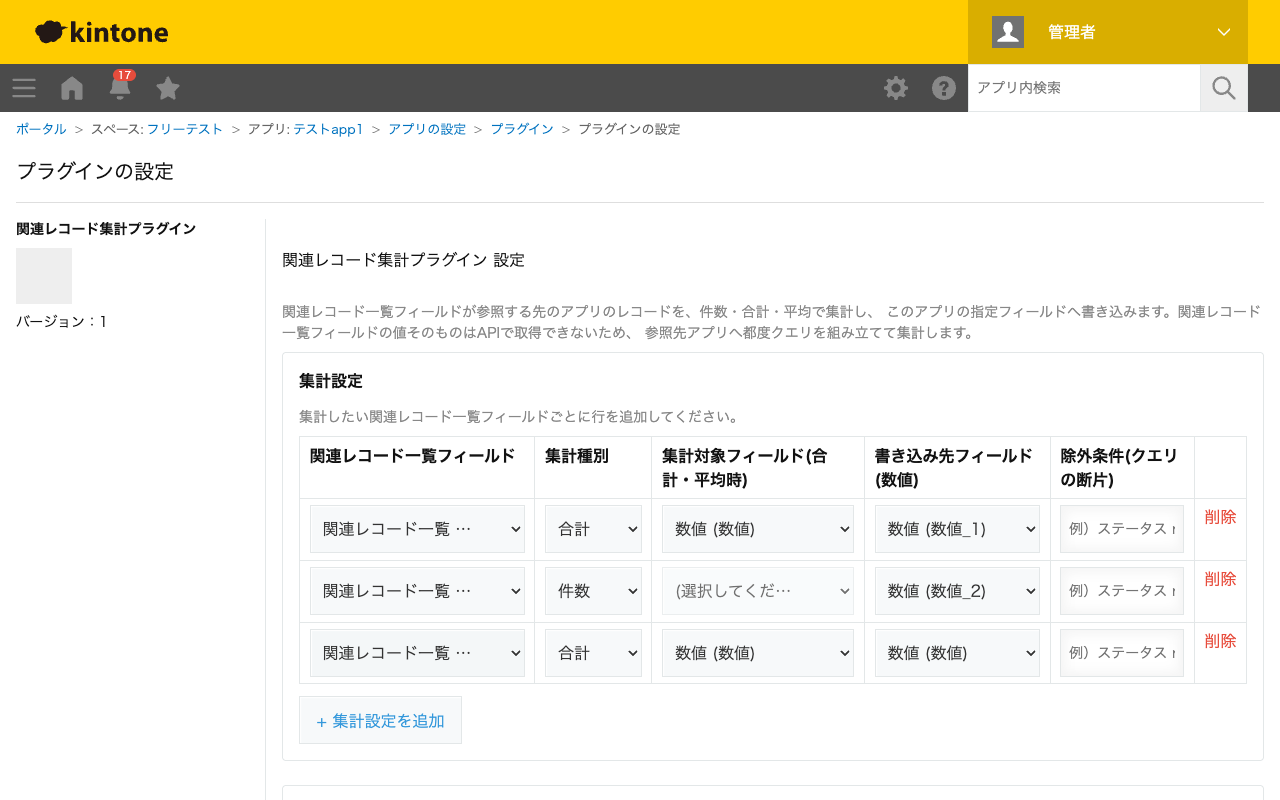
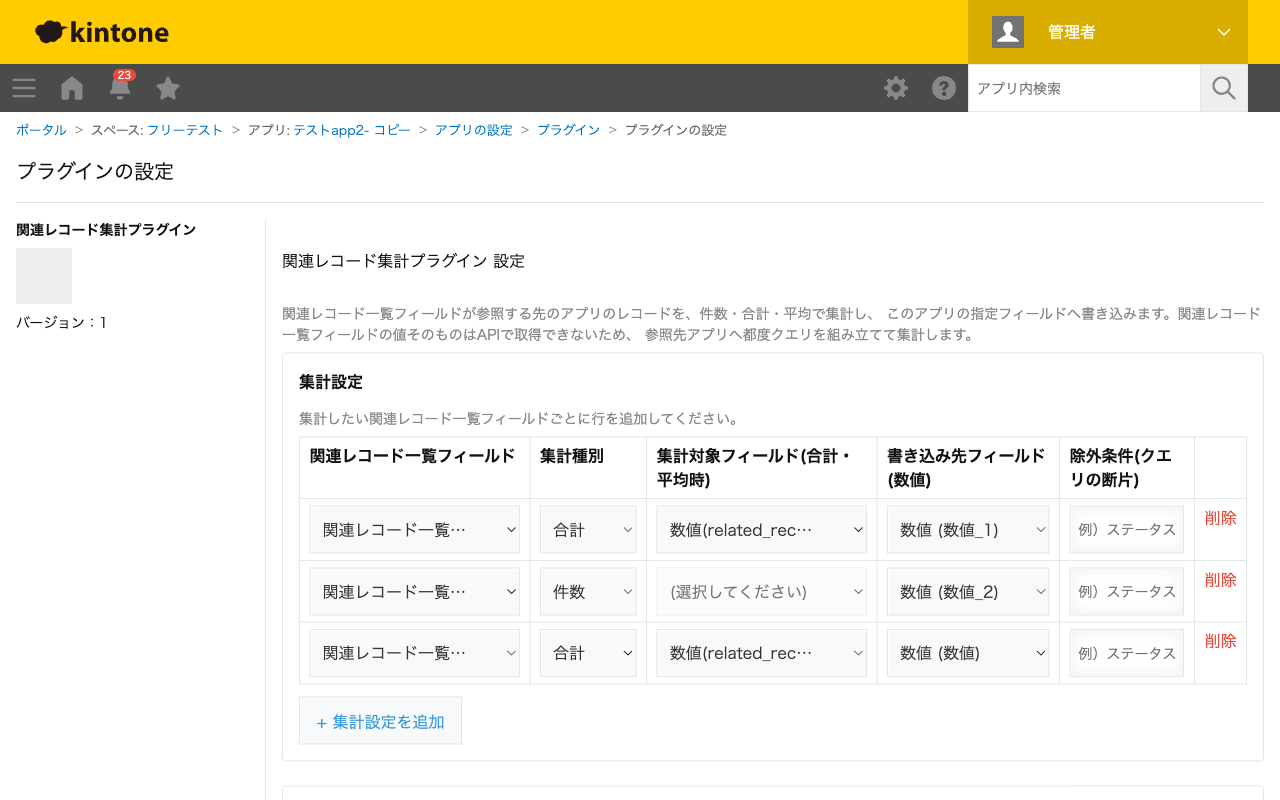
Allow numeric CALC fields as aggregation targets in related_record_summary
Previously only NUMBER-typed fields were offered as SUM/AVERAGE targets.
Calculation fields formatted as plain numbers (NUMBER/NUMBER_DIGIT) now
qualify too; date/time-formatted CALC fields are still excluded since
their REST values aren't numeric strings and would silently aggregate
to zero.

diff --git a/related_record_summary/src/__tests__/aggregatable-fields.test.js b/related_record_summary/src/__tests__/aggregatable-fields.test.js
@@ -1,0 +1,66 @@
+'use strict';
+
+const {
+  isAggregatableField,
+  filterAggregatableFields,
+} = require('../js/lib/aggregatable-fields');
+
+describe('isAggregatableField', () => {
+  test('NUMBERフィールドは対象になる', () => {
+    expect(isAggregatableField({ type: 'NUMBER', code: 'n' })).toBe(true);
+  });
+
+  test('表示書式が数値のCALCフィールドは対象になる', () => {
+    expect(
+      isAggregatableField({ type: 'CALC', code: 'c', format: 'NUMBER' }),
+    ).toBe(true);
+  });
+
+  test('表示書式が数値(カンマ区切り)のCALCフィールドは対象になる', () => {
+    expect(
+      isAggregatableField({ type: 'CALC', code: 'c', format: 'NUMBER_DIGIT' }),
+    ).toBe(true);
+  });
+
+  test.each(['DATETIME', 'DATE', 'TIME', 'HOUR_MINUTE', 'DAY_HOUR_MINUTE'])(
+    '表示書式が%sのCALCフィールドは対象外になる',
+    (format) => {
+      expect(isAggregatableField({ type: 'CALC', code: 'c', format })).toBe(
+        false,
+      );
+    },
+  );
+
+  test('NUMBER/CALC以外のフィールドは対象外になる', () => {
+    expect(isAggregatableField({ type: 'SINGLE_LINE_TEXT', code: 's' })).toBe(
+      false,
+    );
+    expect(isAggregatableField({ type: 'REFERENCE_TABLE', code: 'r' })).toBe(
+      false,
+    );
+  });
+
+  test('未定義・nullは対象外になる', () => {
+    expect(isAggregatableField(undefined)).toBe(false);
+    expect(isAggregatableField(null)).toBe(false);
+  });
+});
+
+describe('filterAggregatableFields', () => {
+  test('配列から対象フィールドのみ抽出する', () => {
+    const fields = [
+      { type: 'NUMBER', code: 'n' },
+      { type: 'CALC', code: 'c1', format: 'NUMBER' },
+      { type: 'CALC', code: 'c2', format: 'DATE' },
+      { type: 'SINGLE_LINE_TEXT', code: 's' },
+    ];
+    expect(filterAggregatableFields(fields)).toEqual([
+      { type: 'NUMBER', code: 'n' },
+      { type: 'CALC', code: 'c1', format: 'NUMBER' },
+    ]);
+  });
+
+  test('未定義は空配列を返す', () => {
+    expect(filterAggregatableFields(undefined)).toEqual([]);
+  });
+});

diff --git a/related_record_summary/src/js/config.js b/related_record_summary/src/js/config.js
@@ -27,8 +27,11 @@
   // 参照先アプリのフィールド一覧はこのアプリのJS APIでは取得できないため、
   // 集計対象フィールド(SUM/AVERAGE用)の候補を出すためだけにREST APIを使う
   // (参照先アプリのフィールド一覧を読むだけであり、レコードの読み書きではない)。
+  // 候補はNUMBERフィールドに加え、表示書式が数値のCALC(計算)フィールドも含める
+  // (js/lib/aggregatable-fields.js参照。日時/時間書式のCALCフィールドはaggregator.jsで
+  // Number()変換がNaNになり黙って集計対象外になるため、ここで除外する)。
   const relatedAppFieldsCache = {};
-  const fetchRelatedAppNumberFields = async (relatedAppId) => {
+  const fetchRelatedAppTargetFields = async (relatedAppId) => {
     if (!relatedAppId) {
       return [];
     }
@@ -43,9 +46,10 @@
       // 同じrelatedAppIdへ連続でawaitが重なった場合、キャッシュへの書き込みが複数回起きることは
       // あり得るが、書き込む値は毎回同じ(冪等)なので実害はない。require-atomic-updatesは誤検知として無効化する。
       // eslint-disable-next-line require-atomic-updates
-      relatedAppFieldsCache[relatedAppId] = Object.values(
-        resp.properties,
-      ).filter((f) => f.type === 'NUMBER');
+      relatedAppFieldsCache[relatedAppId] =
+        NS.AggregatableFields.filterAggregatableFields(
+          Object.values(resp.properties),
+        );
     }
     return relatedAppFieldsCache[relatedAppId];
   };
@@ -93,7 +97,7 @@
 
       const refreshTargetFieldOptions = async () => {
         const relatedAppId = relatedAppIdOf(row);
-        const candidates = await fetchRelatedAppNumberFields(relatedAppId);
+        const candidates = await fetchRelatedAppTargetFields(relatedAppId);
         buildOptions(targetFieldEl, candidates, row.targetFieldCode);
         targetFieldEl.disabled = summaryTypeEl.value === 'COUNT';
       };

diff --git a/related_record_summary/src/js/lib/aggregatable-fields.js b/related_record_summary/src/js/lib/aggregatable-fields.js
@@ -1,0 +1,37 @@
+(function (root) {
+  'use strict';
+
+  // SUM/AVERAGE集計の対象(集計対象フィールド)として選べるフィールドを判定する。
+  //
+  // - 数値(NUMBER)フィールドは常に対象。
+  // - 計算(CALC)フィールドは、表示書式(format)が数値("NUMBER")または
+  //   数値(カンマ区切り、"NUMBER_DIGIT")の場合のみ対象とする。CALCフィールドの値は
+  //   REST APIレスポンス上は常に文字列だが、formatが日時/日付/時刻/時間(時分)/時間(日時分)の
+  //   場合は"2012-01-11"や"49:30"のような非数値の文字列になり、Number()変換ではNaNになって
+  //   aggregator.js側で黙って集計対象から除外されてしまう(kintoneドキュメント「フィールド形式」
+  //   の計算フィールドのvalue例で確認済み)。設定画面で選べる時点でこれらを除外し、
+  //   「選んだのに常に0/空扱いになる」という分かりにくい状態を防ぐ。
+  const NUMERIC_CALC_FORMATS = ['NUMBER', 'NUMBER_DIGIT'];
+
+  const isAggregatableField = (field) => {
+    if (!field) {
+      return false;
+    }
+    if (field.type === 'NUMBER') {
+      return true;
+    }
+    return field.type === 'CALC' && NUMERIC_CALC_FORMATS.includes(field.format);
+  };
+
+  const filterAggregatableFields = (fields) =>
+    (fields || []).filter(isAggregatableField);
+
+  const AggregatableFields = { isAggregatableField, filterAggregatableFields };
+
+  if (typeof module !== 'undefined' && module.exports) {
+    module.exports = AggregatableFields;
+  } else {
+    root.RelatedRecordSummary = root.RelatedRecordSummary || {};
+    root.RelatedRecordSummary.AggregatableFields = AggregatableFields;
+  }
+})(typeof window !== 'undefined' ? window : globalThis);

diff --git a/related_record_summary/src/e2e/config-screen.e2e.test.js b/related_record_summary/src/e2e/config-screen.e2e.test.js
@@ -21,9 +21,12 @@
 const path = require('path');
 const puppeteer = require('puppeteer');
 const common = require('../../../scripts/e2e/common');
+const kintoneAdmin = require('../../../scripts/kintone-admin');
 const {
   REFERENCE_FIELD_CODE,
   RELATED_TARGET_FIELD_CODE,
+  RELATED_CALC_TARGET_FIELD_CODE,
+  ensureCalcField,
 } = require('./fixtures');
 
 const PLUGIN_NAME = 'related_record_summary';
@@ -40,6 +43,8 @@ describe('設定画面(実環境)', () => {
     repoRoot = common.findRepoRoot(PLUGIN_SRC_DIR);
     env = common.loadEnv(repoRoot);
     pluginId = common.getPluginId(PLUGIN_SRC_DIR);
+    await kintoneAdmin.ensurePluginAdded(env, env.TEST_APP_ID_1, pluginId);
+    await ensureCalcField(env, env.TEST_APP_ID_2);
 
     browser = await puppeteer.launch({ headless: true });
     page = await browser.newPage();
@@ -101,6 +106,9 @@ describe('設定画面(実環境)', () => {
       (options) => options.map((o) => o.value).filter((v) => v !== ''),
     );
     expect(targetOptionValues).toContain(RELATED_TARGET_FIELD_CODE);
+    // 表示書式が数値のCALC(計算)フィールドも集計対象フィールドの候補に含まれる
+    // (aggregatable-fields.jsの回帰確認。以前はNUMBERフィールドのみだった)。
+    expect(targetOptionValues).toContain(RELATED_CALC_TARGET_FIELD_CODE);
 
     // 集計種別を「合計」に切り替えると、集計対象フィールドが選択可能になる。
     const summaryTypeSelect = await newRow.$('.js-row-summary-type');

diff --git a/related_record_summary/src/e2e/fixtures.js b/related_record_summary/src/e2e/fixtures.js
@@ -81,6 +81,22 @@ const RELATED_TARGET_FIELD_CODE = '数値'; // 参照先アプリの集計対象
 const WRITE_FIELD_SUM = '数値_1'; // 自アプリの書き込み先(合計)
 const WRITE_FIELD_COUNT = '数値_2'; // 自アプリの書き込み先(件数)
 
+// 集計対象フィールドの候補にCALC(計算)フィールドも出ることを検証するためのフィールド
+// (TEST_APP_ID_2には表示書式が数値のCALCフィールドが存在しないため、新設する。
+// CLAUDE.md開発方針7: 本当に不足しているフィールドのみensureFormFields()で追加する)。
+const RELATED_CALC_TARGET_FIELD_CODE = 'rrs_calc_number';
+
+const ensureCalcField = (env, appId) =>
+  kintoneAdmin.ensureFormFields(env, appId, {
+    [RELATED_CALC_TARGET_FIELD_CODE]: {
+      type: 'CALC',
+      code: RELATED_CALC_TARGET_FIELD_CODE,
+      label: '計算(数値、related_record_summaryテスト用)',
+      expression: RELATED_TARGET_FIELD_CODE,
+      format: 'NUMBER',
+    },
+  });
+
 // TEST_APP_ID_1に、参照先アプリのsample1グループと一致するシードレコードを1件用意する
 // (既にあれば再作成しない)。
 const ensureSeedRecord = async (env, appId) => {
@@ -113,8 +129,10 @@ module.exports = {
   MARKER_VALUE,
   REFERENCE_FIELD_CODE,
   RELATED_TARGET_FIELD_CODE,
+  RELATED_CALC_TARGET_FIELD_CODE,
   WRITE_FIELD_SUM,
   WRITE_FIELD_COUNT,
   ensureSeedRecord,
+  ensureCalcField,
   openRecordDetailViaIndex,
 };

diff --git a/related_record_summary/src/e2e/aggregation.e2e.test.js b/related_record_summary/src/e2e/aggregation.e2e.test.js
@@ -49,6 +49,7 @@ describe('詳細画面ボタンでの実集計(実環境)', () => {
     const repoRoot = common.findRepoRoot(PLUGIN_SRC_DIR);
     env = common.loadEnv(repoRoot);
     const pluginId = common.getPluginId(PLUGIN_SRC_DIR);
+    await kintoneAdmin.ensurePluginAdded(env, env.TEST_APP_ID_1, pluginId);
 
     const seed = await ensureSeedRecord(env, env.TEST_APP_ID_1);
     seedRecordId = seed.recordId;

diff --git a/related_record_summary/idea.md b/related_record_summary/idea.md
@@ -114,9 +114,15 @@ AND結合して合成する(`js/lib/query-builder.js`、TDD済み)。
 `kintone.plugin.app.setConfig()`にのみ保存する(`setProxyConfig()`は使わない。認証情報を扱わない設計のため)。
 
 - 集計設定の行(複数追加可能): 関連レコード一覧フィールド / 集計種別(件数・合計・平均) /
-  集計対象フィールド(合計・平均時のみ、参照先アプリの数値フィールドから選択。参照先アプリのフィールド一覧は
-  `GET /k/v1/app/form/fields.json`をREST APIで取得して候補を出す。他アプリのフィールド一覧を読むだけの用途で
-  レコードの読み書きではない) / 書き込み先フィールド(自アプリの数値フィールド) / 除外条件(クエリの断片)
+  集計対象フィールド(合計・平均時のみ、参照先アプリの数値フィールド、および表示書式が数値
+  (`NUMBER`)または数値〈カンマ区切り〉(`NUMBER_DIGIT`)の計算フィールドから選択。`js/lib/aggregatable-fields.js`
+  参照。計算フィールドは表示書式が日時/日付/時刻/時間(時分)/時間(日時分)だとREST APIレスポンス上の値が
+  `"2012-01-11"`や`"49:30"`のような非数値文字列になり(kintoneドキュメント「フィールド形式」で確認済み)、
+  `aggregator.js`の`Number()`変換がNaNになって黙って集計対象から除外されてしまうため、候補には含めない。
+  参照先アプリのフィールド一覧は`GET /k/v1/app/form/fields.json`をREST APIで取得して候補を出す。
+  他アプリのフィールド一覧を読むだけの用途でレコードの読み書きではない) /
+  書き込み先フィールド(自アプリの数値フィールド。計算フィールドは値の登録・更新ができないため対象外) /
+  除外条件(クエリの断片)
 - 発動条件: 保存時 ON/OFF、詳細画面ボタン ON/OFF、一覧画面一括集計ボタン ON/OFF
 - 一括集計を許可するグループコード(カンマ区切りで複数指定可)
 
@@ -134,6 +140,8 @@ AND結合して合成する(`js/lib/query-builder.js`、TDD済み)。
   中断時の`deleteCursor`呼び出し)のorchestrationロジック(API呼び出しは依存性注入でテスト可能にしている)。
 - `paged-fetch.js`: 参照先アプリのSUM/AVERAGE集計用の`$id`昇順ページング。
 - `config-store.js`: `kintone.plugin.app.setConfig()`/`getConfig()`のペイロードの読み書きと既定値。
+- `aggregatable-fields.js`: 集計対象フィールドの候補判定(NUMBERフィールド、および表示書式が数値の
+  CALCフィールドのみを対象とする)。
 
 kintone依存のグルーコード(`related-record-client.js`, `summary-service.js`, `bulk-summary.js`,
 `desktop.js`/`mobile.js`, `config.js`)は、Puppeteerによる実環境テスト(CLAUDE.md項目6)で検証する。
